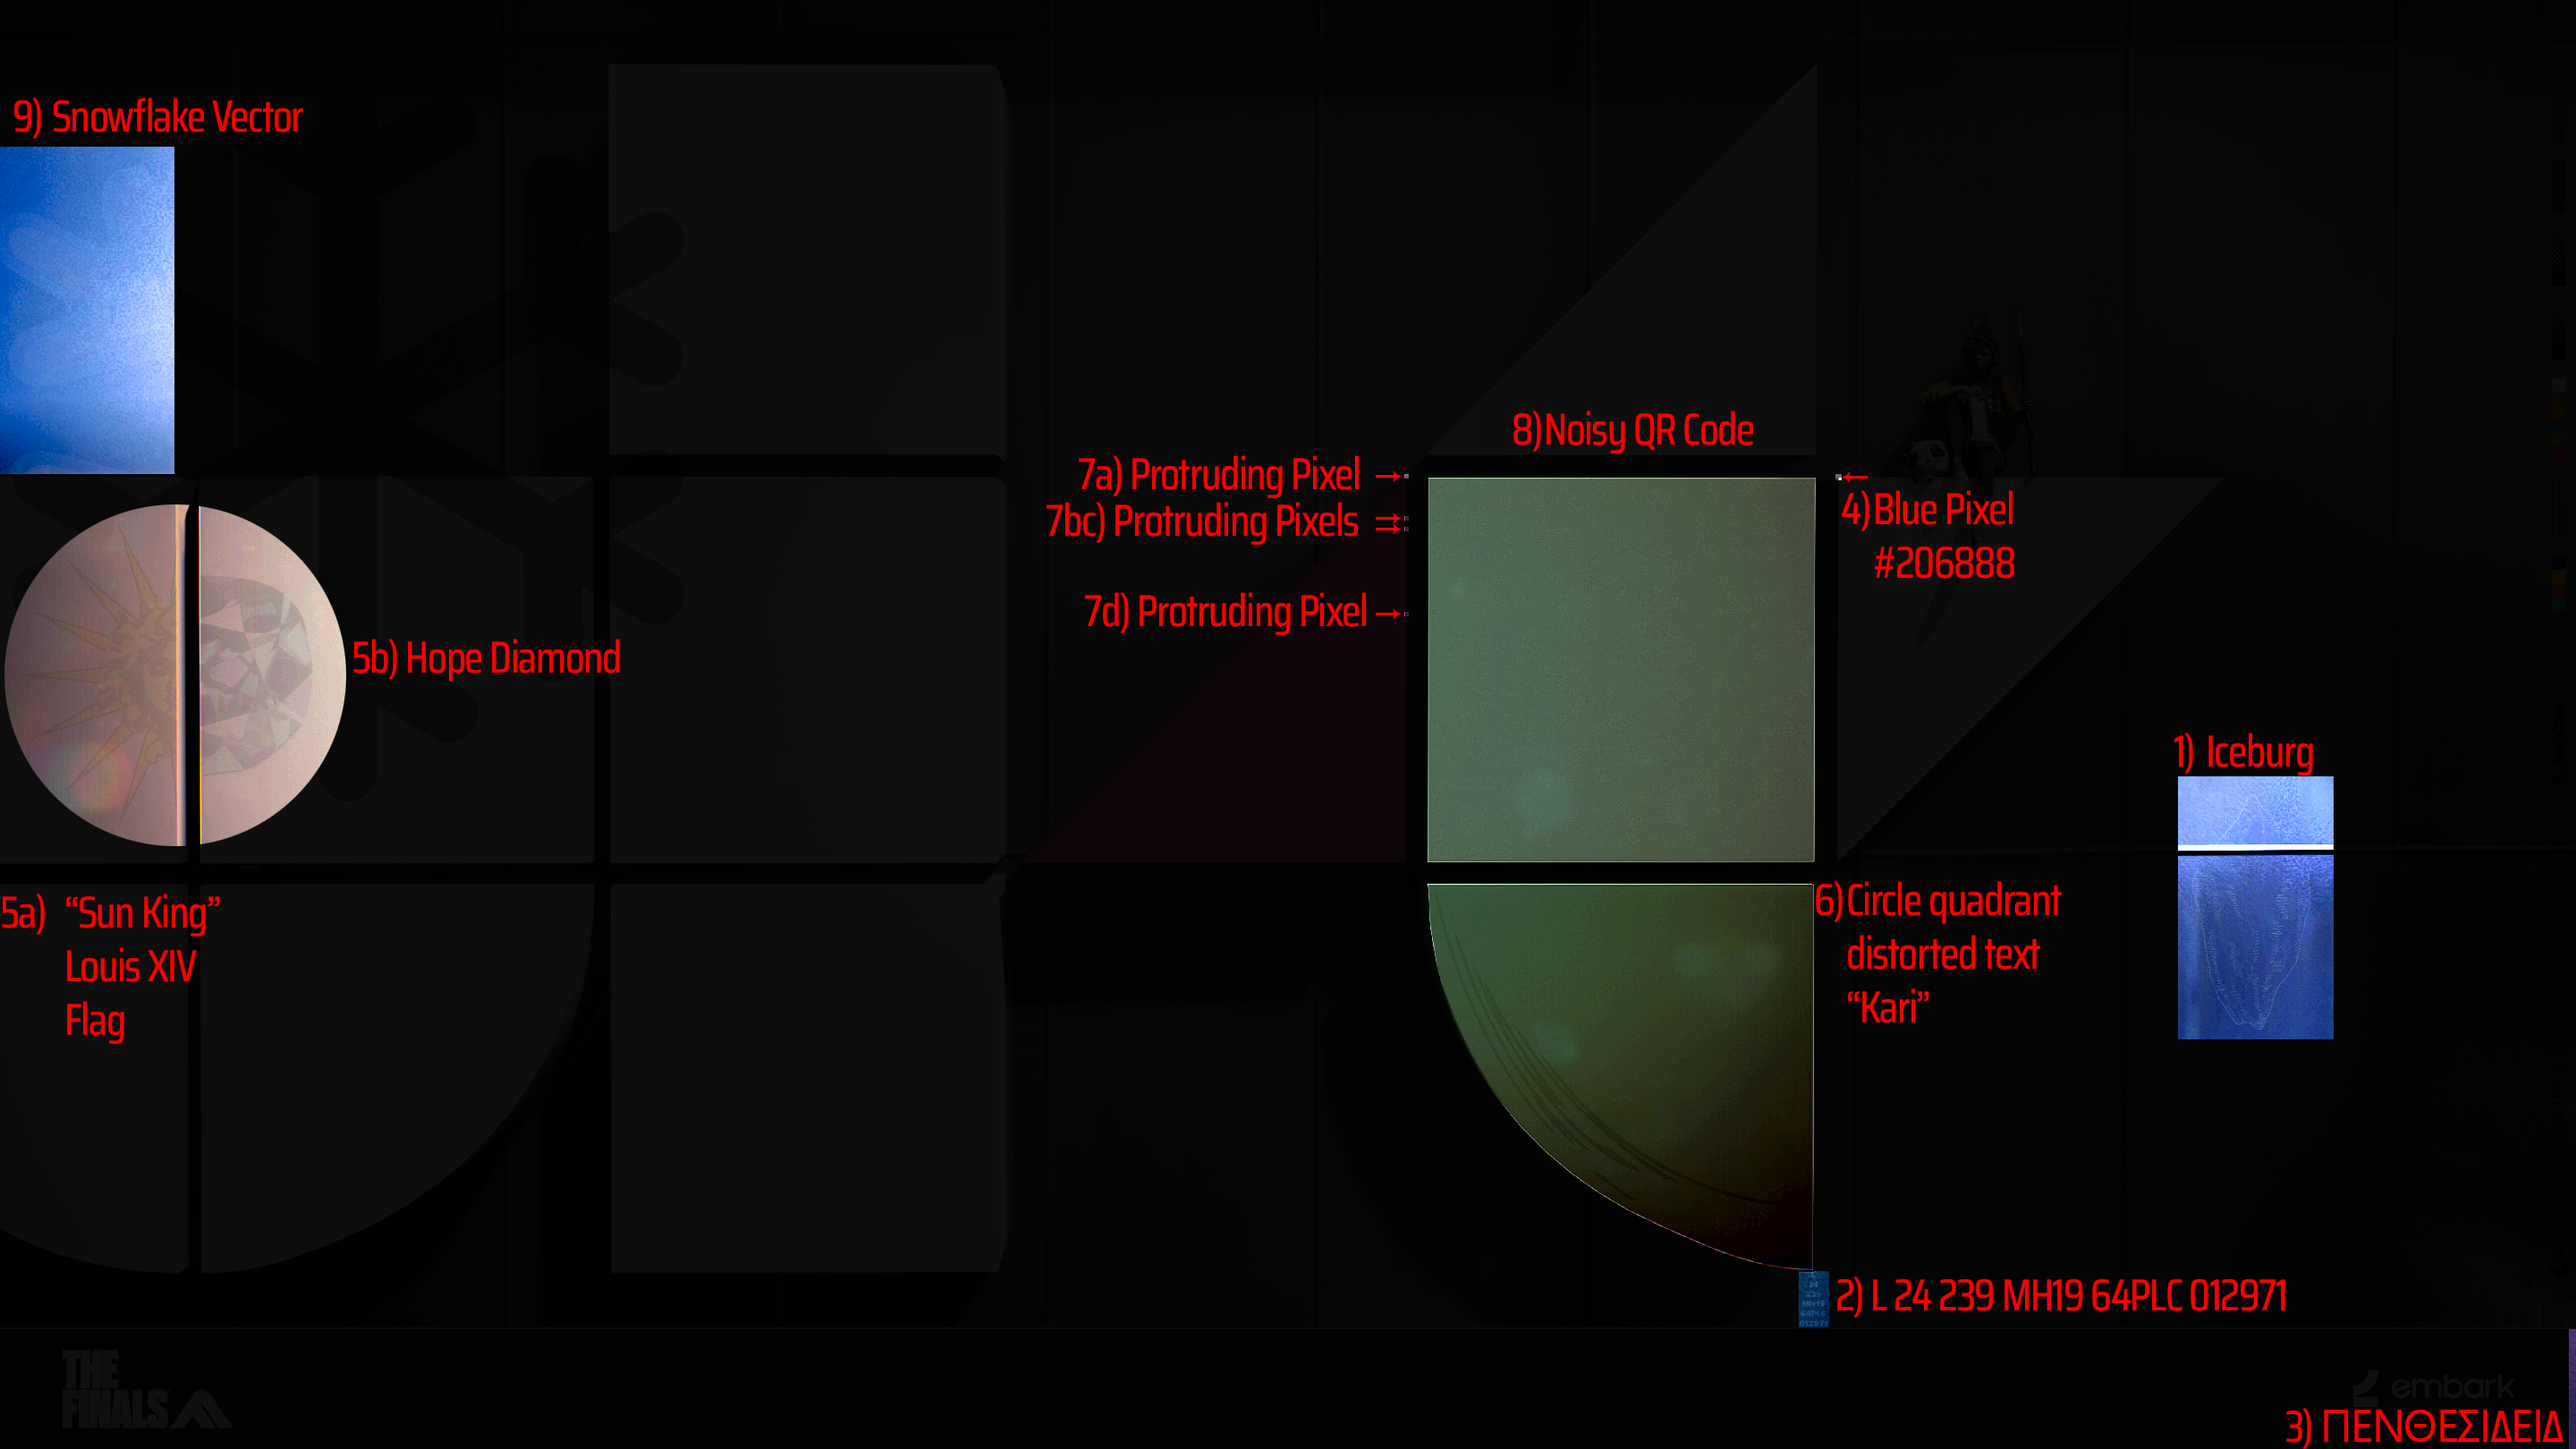
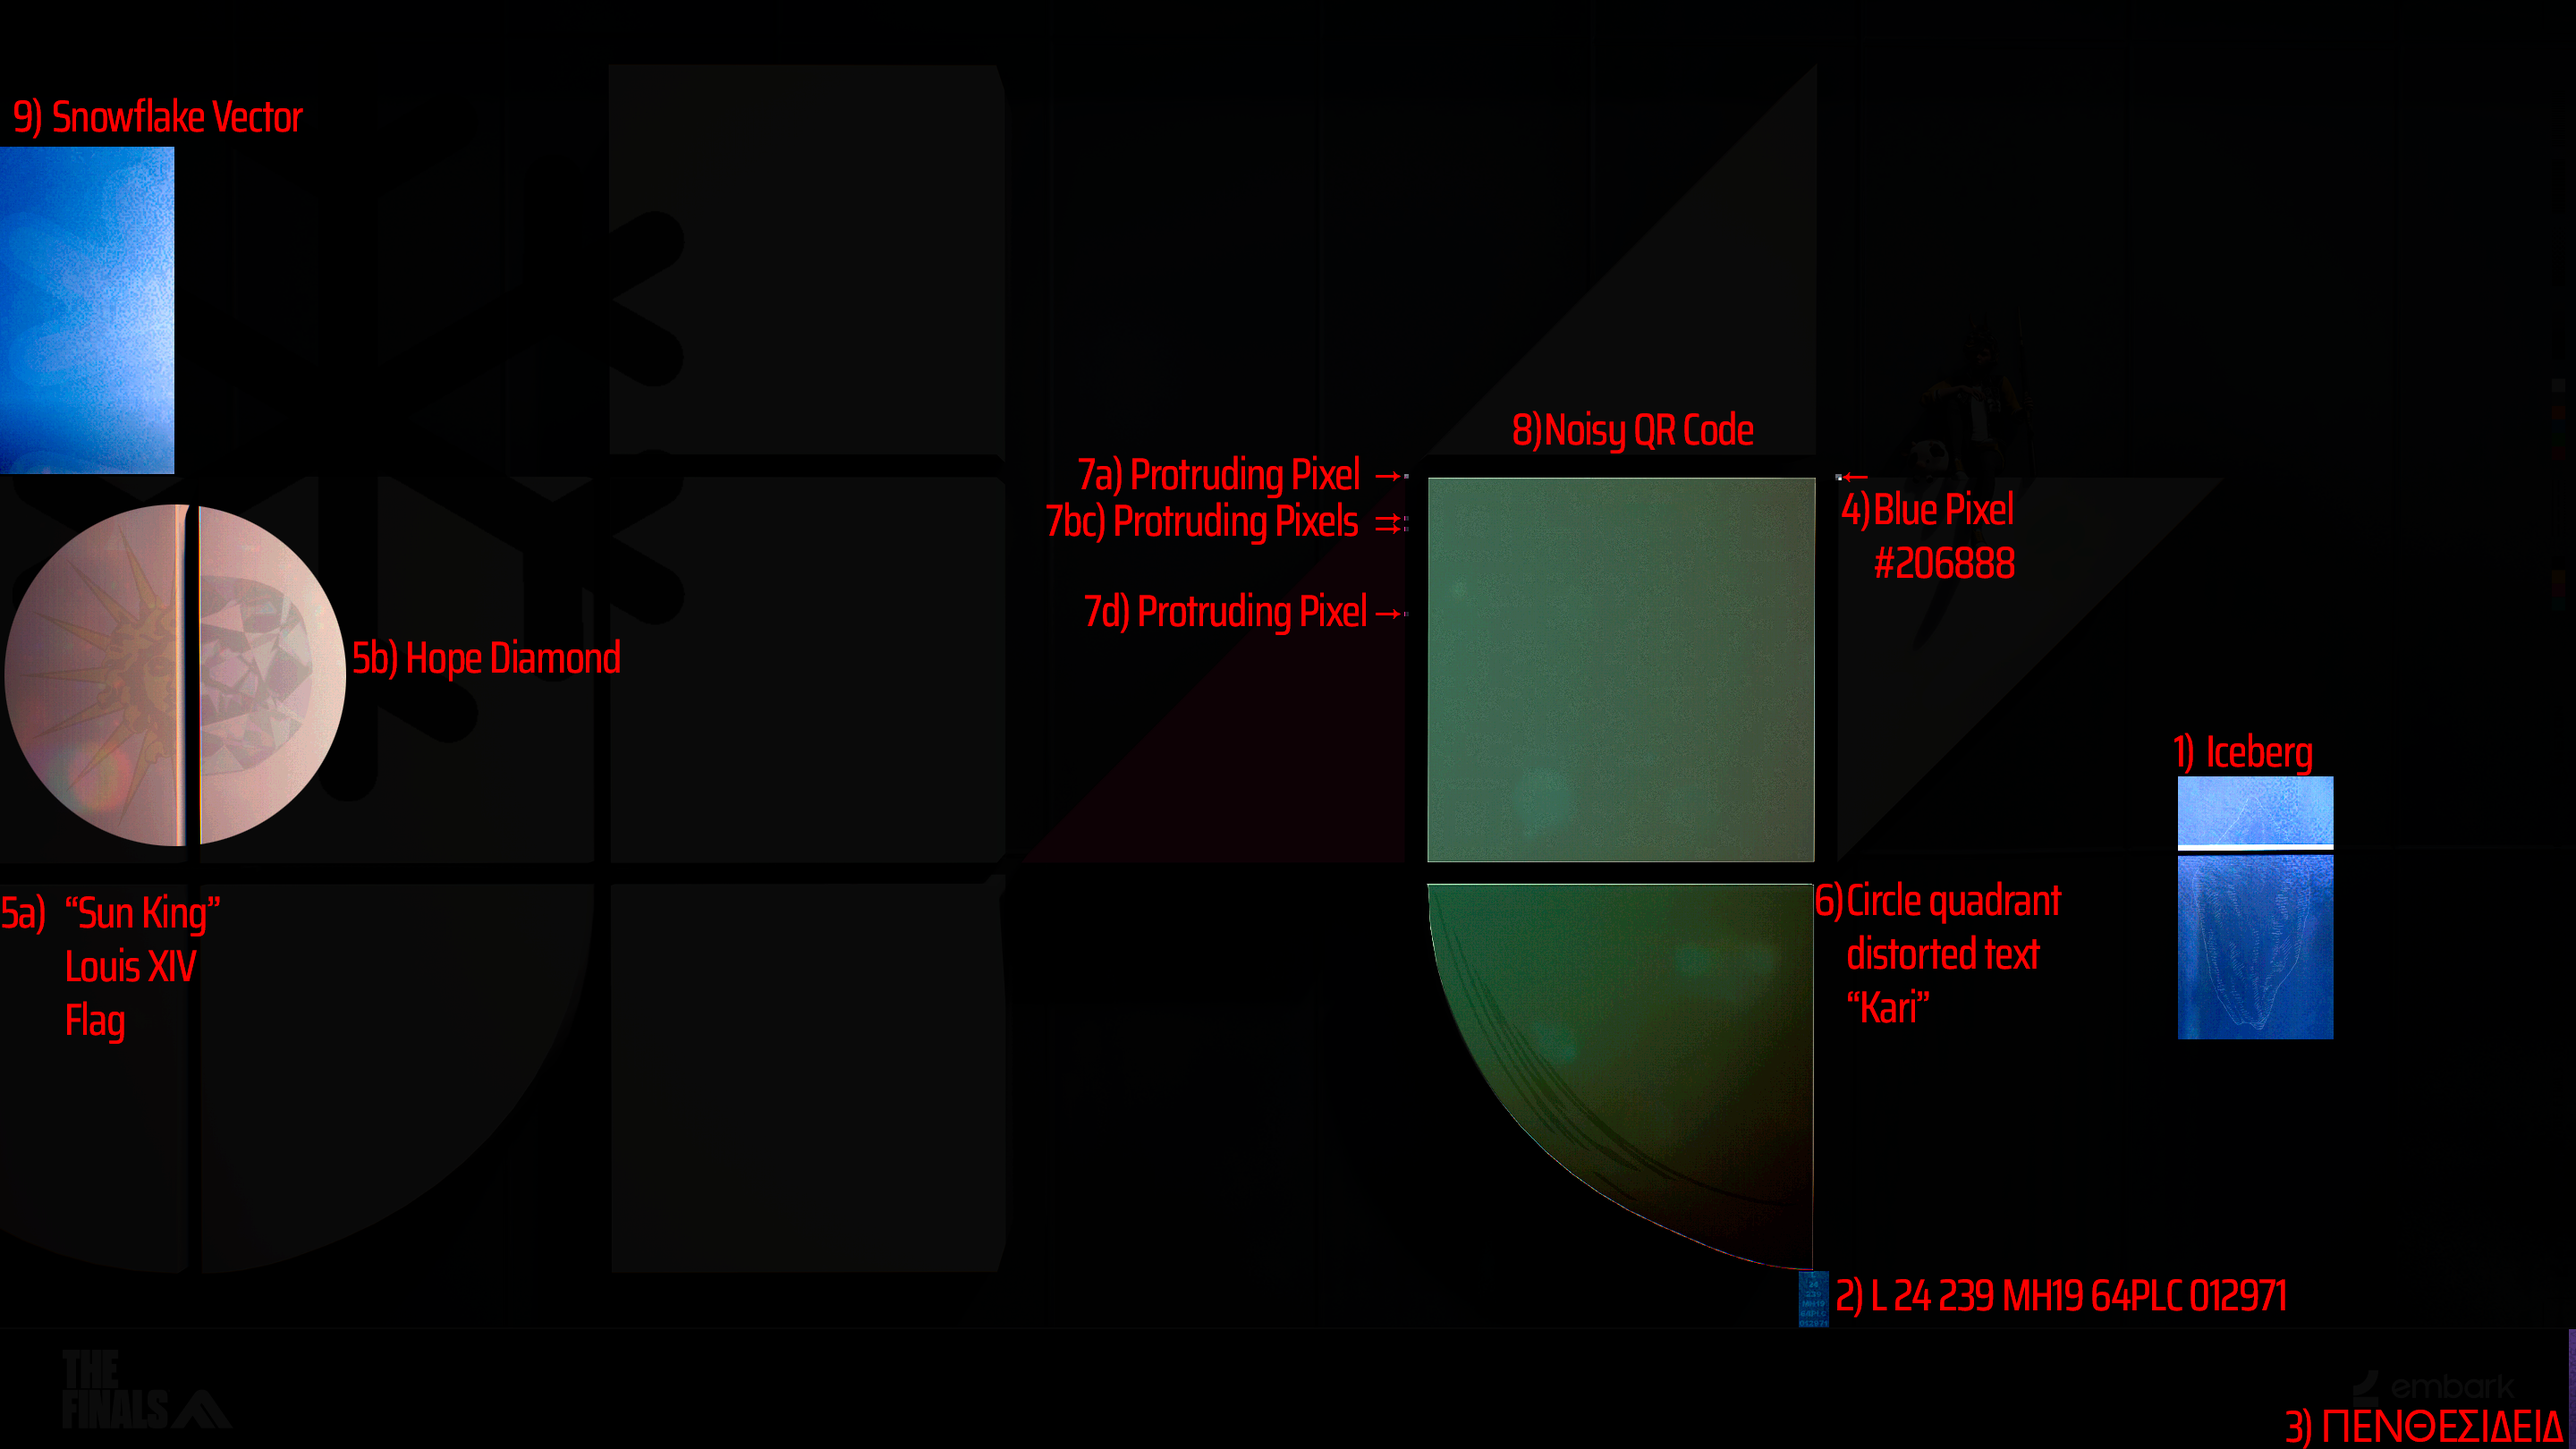
Fixed typo iceburg -> iceberg

Changed region(s): [[0.0, 0.0926, 0.0625, 0.3395], [0.8438, 0.5247, 0.9062, 0.7407], [0.5312, 0.5864, 0.625, 0.7099]]

diff --git a/content/T1E/Wallpaper_Iseult_Chill.md b/content/T1E/Wallpaper_Iseult_Chill.md
@@ -2,7 +2,7 @@
 
 ![[THE_FINALS_Wallpaper_Iseult_Chill_2880x1620_clues.png | 2000]]
 
-# 1) Iceburg
+# 1) Iceberg
 Another clue to ice for the tier!
 
 # 2) L 24 239 MH19 64PLC 012971
